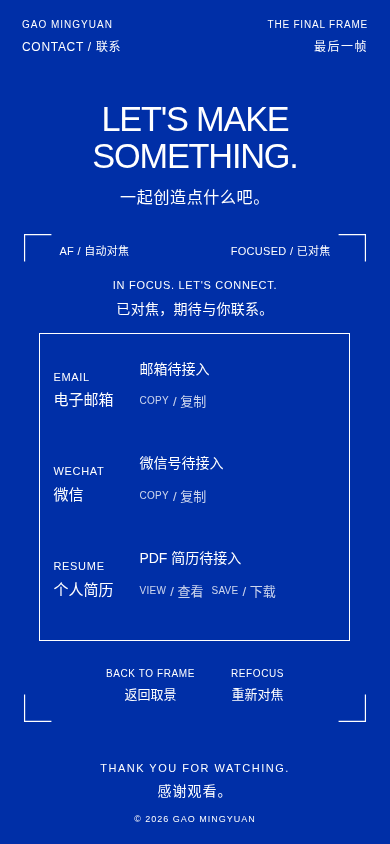
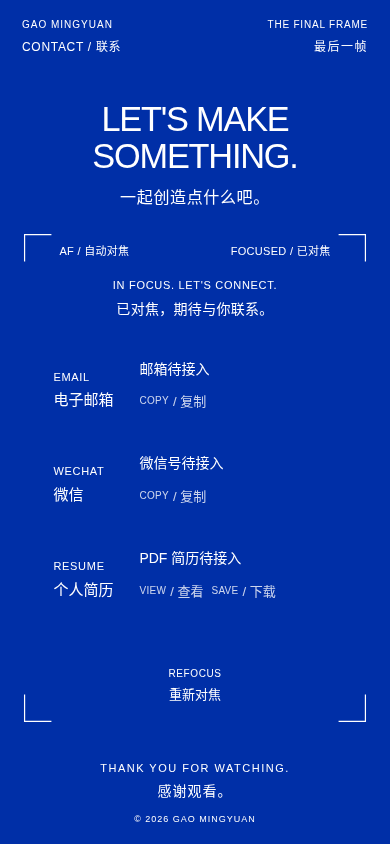
Correct CONTACT focus states and simplify camera controls

Changed region(s): [[0.2769, 0.7701, 0.5538, 0.8318], [0.5846, 0.7701, 0.7385, 0.8318]]

diff --git a/prototypes/contact-interaction/contact.js b/prototypes/contact-interaction/contact.js
@@ -2,47 +2,51 @@
 (() => {
   const $ = id => document.getElementById(id);
   const root=$('contact'), frame=$('viewfinder'), autofocus=$('autofocus'), flash=$('shutter-flash'), trigger=$('focus-trigger'), panel=$('contact-panel');
-  const back=$('back'), refocus=$('refocus'), feedback=$('copy-feedback');
+  const control=$('capture-control'), feedback=$('copy-feedback');
   const reduced=matchMedia('(prefers-reduced-motion: reduce)');
-  let playhead=0, goal=0, animation=null, raf=0, reopen=false;
+  let playhead=0, goal=0, animation=null, raf=0;
   let contact={email:null,wechat:null,resumeUrl:null,wechatQrUrl:null}, copyEpoch=0, feedbackToken=0;
   const ease=x=>(1-Math.cos(Math.PI*x))/2;
   function render() {
     // The composition stays fixed; only optical clarity and the auxiliary AF strokes change.
     const phase=(a,b)=>ease(Math.max(0,Math.min(1,(playhead-a)/(b-a))));
     panel.style.filter=`blur(${20*(1-phase(.12,.64))}px)`;
-    const shrink=1-.3*phase(0,.16), spread=phase(.16,.57);
-    const mix=(a,b)=>a+(b-a)*spread;
-    const d=`M ${mix(0,28)} ${mix(-7*shrink,-42)} L ${mix(0,42)} ${mix(0,-42)} L ${mix(7*shrink,42)} ${mix(0,-28)}`;
-    for(const path of autofocus.children)path.setAttribute('d',d);
-    autofocus.style.opacity=String(1-phase(.85,.96));
-    for(const path of autofocus.children)path.style.strokeWidth=String(1.2+.5*phase(.57,.64));
+    // A permanent cross and nearby corner strokes form one compact AF reticle.
+    const tightening=phase(0,.24)*(1-phase(.60,.68));
+    const inset=34-7*tightening, arm=12;
+    for(const path of $('af-corners').children)path.setAttribute('d',`M ${inset-arm} ${-inset} L ${inset} ${-inset} L ${inset} ${-inset+arm}`);
+    autofocus.style.opacity=String(1-phase(.79,.85));
+    autofocus.style.transform=`translate(-50%, -50%) scale(${1-.1*phase(0,.24)*(1-phase(.60,.68))})`;
+    const weight=1.2+.45*phase(.60,.66);
+    for(const path of $('af-corners').children)path.style.strokeWidth=String(weight);
     const exposure=goal===1&&animation&&playhead>.79&&playhead<.85;
     flash.style.opacity=String(exposure ? .16*Math.sin(Math.PI*(playhead-.79)/.06):0);
-    const focused=playhead===1&&goal===1&&!reopen;
-    const state=focused?'focused':!animation?'standby':goal===0?'defocusing':playhead<.64?'focusing':playhead<.79?'locked':playhead<.85?'shutter':'freezing';
+    const focused=playhead===1&&goal===1;
+    const state=focused?'focused':!animation?'standby':goal===0?'defocusing':playhead<.64?'focusing':playhead<.79?'locked':'shutter';
     root.dataset.state=state;
     root.dataset.progress=String(playhead);
     panel.inert=!focused;
-    trigger.disabled=focused;
-    $('camera-state').textContent=({focused:'FOCUSED / 已对焦',standby:'STANDBY / 待机',defocusing:'STANDBY / 待机',focusing:'FOCUSING / 对焦中',locked:'LOCKED / 已锁定',shutter:'CAPTURE / 拍摄',freezing:'FOCUSED / 已对焦'})[state];
-    back.children[0].textContent=goal||focused?'BACK TO FRAME':'CLICK TO FOCUS';
-    back.children[1].textContent=goal||focused?'返回取景':'点击对焦';
-    refocus.children[0].textContent=focused?'REFOCUS':'VIEW NOW';
-    refocus.children[1].textContent=focused?'重新对焦':'直接查看';
-    refocus.setAttribute('aria-label',focused?'重新对焦 / Refocus':'直接查看联系方式，跳过动画 / View contacts without animation');
+    trigger.disabled=focused||!!animation;
+    $('camera-state').textContent=({focused:'FOCUSED / 已对焦',standby:'STANDBY / 待机',defocusing:'STANDBY / 待机',focusing:'FOCUSING / 对焦中',locked:'LOCKED / 已锁定',shutter:'CAPTURE / 拍摄'})[state];
+    const message=focused?["IN FOCUS. LET'S CONNECT.",'已对焦，期待与你联系。']:!animation||goal===0?['OUT OF FOCUS','尚未对焦']:state==='locked'?['FOCUS LOCKED','焦点已锁定']:state==='shutter'?['CAPTURING...','正在拍摄…']:['FOCUSING...','正在对焦…'];
+    if($('focus-en').textContent!==message[0])$('focus-en').textContent=message[0];
+    if($('focus-zh').textContent!==message[1])$('focus-zh').textContent=message[1];
+    control.children[0].textContent=focused?'REFOCUS':'CLICK TO FOCUS';
+    control.children[1].textContent=focused?'重新对焦':'点击对焦';
+    control.disabled=!!animation;
+    control.setAttribute('aria-label',focused?'重新对焦，恢复尚未对焦状态 / Refocus':'点击对焦 / Click to focus');
+
   }
   function finish(next) {
     playhead=goal=next; animation=null; frame.removeAttribute('aria-busy');
-    if(!next&&reopen){reopen=false;go(1);return;}
     render();
     if(next)panel.focus({preventScroll:true});else trigger.focus({preventScroll:true});
   }
-  function go(next,{immediate=false,again=false}={}) {
-    cancelAnimationFrame(raf);raf=0;reopen=again;
+  function go(next) {
+    cancelAnimationFrame(raf);raf=0;
     feedbackToken++;feedback.replaceChildren();
     goal=next;
-    if(immediate||reduced.matches){reopen=false;finish(again?1:next);return;}
+    if(reduced.matches){finish(next);return;}
     if(next===playhead){finish(next);return;}
     // Reversal starts from the current blur value; no geometry or content is replaced.
     animation={from:playhead,to:next,start:performance.now(),duration:(next?1500:650)*Math.abs(next-playhead)};
@@ -52,13 +56,12 @@
     raf=0;if(!animation)return;
     const t=Math.min(1,(now-animation.start)/animation.duration);
     playhead=animation.from+(animation.to-animation.from)*t;
-    if(t===1)finish(animation.to);else{render();raf=requestAnimationFrame(tick);}
+    if(t===1||(animation.to===1&&playhead>=.85))finish(animation.to);else{render();raf=requestAnimationFrame(tick);}
   }
   trigger.addEventListener('click',()=>{if(!animation)go(1);});
-  back.addEventListener('click',()=>go(goal||playhead===1?0:1));
-  refocus.addEventListener('click',()=>playhead===1&&!animation?go(0,{again:true}):go(1,{immediate:true}));
+  control.addEventListener('click',()=>{if(!animation)go(playhead===1?0:1);});
   document.addEventListener('keydown',event=>{if(event.key==='Escape'&&(playhead||goal)){event.preventDefault();go(0);}});
-  reduced.addEventListener('change',()=>{if(reduced.matches&&animation){const end=reopen?1:goal;cancelAnimationFrame(raf);raf=0;reopen=false;finish(end);}});
+  reduced.addEventListener('change',()=>{if(reduced.matches&&animation){const end=goal;cancelAnimationFrame(raf);raf=0;finish(end);}});
   function emailValue(value) {
     if(value===null||value===undefined||value==='')return null;
     if(typeof value!=='string'||!/^[^\s@]+@[^\s@]+\.[^\s@]+$/.test(value.trim()))throw new TypeError('请提供真实有效的邮箱地址');return value.trim();
@@ -101,7 +104,7 @@
   function layout() {
     // Preserve the approved final geometry, including its integer clientWidth rounding.
     const w=frame.clientWidth,h=frame.clientHeight,mobile=innerWidth<=650;
-    for(const element of [$('focus-mark'),panel])Object.assign(element.style,{left:`${mobile?16:w*.08}px`,top:'100px',width:`${mobile?w-32:w*.84}px`,height:`${h-182}px`});
+    Object.assign(panel.style,{left:`${mobile?16:w*.08}px`,top:'100px',width:`${mobile?w-32:w*.84}px`,height:`${h-182}px`});
   }
   window.addEventListener('resize',layout);layout();render();
 })();

diff --git a/prototypes/contact-interaction/contact.css b/prototypes/contact-interaction/contact.css
@@ -25,7 +25,6 @@ h1 { font-size: clamp(34px, 4.2vw, 84px); line-height: 1.05; font-weight: 400; l
 .camera-ui { position: absolute; top: 13px; font-size: 12px; line-height: 1.5; letter-spacing: 1px; pointer-events: none; }
 .camera-left { left: 58px; }
 .camera-right { right: 58px; }
-.focus-mark { position: absolute; left: 8%; top: 100px; width: 84%; height: calc(100% - 182px); border: 1.2px solid white; pointer-events: none; opacity: 1; }
 .focus-trigger { position: absolute; inset: 0; width: 100%; height: 100%; border: 0; background: none; padding: 0; cursor: crosshair; z-index: 2; touch-action: manipulation; -webkit-tap-highlight-color: transparent; }
 .focus-trigger:disabled { pointer-events: none; }
 .focus-content { position: absolute; inset: 0; pointer-events: none; }
@@ -58,8 +57,7 @@ a.contact-value[href]:hover { text-decoration: underline; text-underline-offset:
 .copy-feedback span { display: block; }
 .copy-feedback [lang='en'] { font-size: 11px; }
 .frame-controls .text-control span { white-space: nowrap; }
-#back { width: 118.453125px; }
-#refocus { width: 76.78125px; }
+#capture-control { width: 118.453125px; }
 .frame-controls { position: absolute; bottom: 13px; left: 12px; right: 12px; display: flex; gap: 32px; justify-content: center; z-index: 4; }
 footer { display: grid; grid-template-columns: 1fr auto 1fr; align-items: end; padding: 12px 4.5vw 24px; gap: 20px; }
 .copyright { font-size: 10px; letter-spacing: 1px; line-height: 1.5; }
@@ -85,7 +83,7 @@ footer { display: grid; grid-template-columns: 1fr auto 1fr; align-items: end; p
   #focus-zh { font-size: 14px; letter-spacing: .3px; }
   .text-control span:first-child { font-size: 10px; letter-spacing: .6px; }
   .text-control span:last-child { font-size: 13px; }
-  .focus-mark, .contact-panel { left: 16px; width: calc(100% - 32px); }
+  .contact-panel { left: 16px; width: calc(100% - 32px); }
   .contact-panel { padding: 12px 14px; gap: 4px; }
   .contact-grid { grid-template-columns: minmax(0,1fr); grid-template-rows: repeat(3,minmax(64px,1fr)); gap: 4px; align-items: stretch; }
   .contact-item { grid-template-columns: 76px minmax(0,1fr); grid-template-rows: auto 44px; grid-template-areas: 'heading value' 'heading actions'; gap: 0 10px; text-align: left; align-content: center; }
@@ -99,8 +97,7 @@ footer { display: grid; grid-template-columns: 1fr auto 1fr; align-items: end; p
   .inline-action span:last-child { font-size: 13px; }
   .copy-feedback { font-size: 12px; }
   .copy-feedback [lang='en'] { font-size: 10px; }
-  #back { width: 105.125px; }
-  #refocus { width: 69.09375px; }
+  #capture-control { width: 105.125px; }
   .frame-controls { gap: 20px; }
   footer { padding: 10px 20px 18px; display: flex; flex-direction: column; align-items: center; gap: 11px; }
   .end-credit { order: -1; gap: 4px; }
@@ -116,6 +113,6 @@ footer { display: grid; grid-template-columns: 1fr auto 1fr; align-items: end; p
 @media (prefers-reduced-motion: reduce) { *, *::before, *::after { animation: none !important; transition: none !important; } }
 
 /* Optical helpers overlay the fixed composition; no layout element is animated. */
-.autofocus { position: absolute; left: 50%; top: calc(50% + 9px); width: 112px; height: 84px; transform: translate(-50%, -50%); overflow: visible; pointer-events: none; z-index: 4; }
+.autofocus { position: absolute; left: 50%; top: calc(50% + 9px); width: 48px; height: 48px; transform: translate(-50%, -50%); overflow: visible; pointer-events: none; z-index: 4; }
 .autofocus path { fill: none; stroke: white; stroke-width: 1.2; vector-effect: non-scaling-stroke; }
 .shutter-flash { position: absolute; inset: 0; background: white; opacity: 0; pointer-events: none; z-index: 5; }

diff --git a/prototypes/contact-interaction/index.html b/prototypes/contact-interaction/index.html
@@ -22,15 +22,15 @@
       <svg class="corner corner-br" viewBox="0 0 48 48" aria-hidden="true"><path d="M1 47V1H47" pathLength="1"/></svg>
       <svg class="corner corner-bl" viewBox="0 0 48 48" aria-hidden="true"><path d="M1 47V1H47" pathLength="1"/></svg>
       <span class="camera-ui camera-left">AF / 自动对焦</span><span id="camera-state" class="camera-ui camera-right">STANDBY / 待机</span>
-      <div id="focus-mark" class="focus-mark" aria-hidden="true"></div>
       <svg id="autofocus" class="autofocus" viewBox="-50 -50 100 100" preserveAspectRatio="none" aria-hidden="true">
-        <path/><path transform="rotate(90)"/><path transform="rotate(180)"/><path transform="rotate(270)"/>
+        <path class="af-cross" d="M-7 0H7 M0-7V7"/>
+        <g id="af-corners"><path/><path transform="rotate(90)"/><path transform="rotate(180)"/><path transform="rotate(270)"/></g>
       </svg>
       <div id="shutter-flash" class="shutter-flash" aria-hidden="true"></div>
       <button id="focus-trigger" class="focus-trigger" type="button" aria-label="点击对焦，查看联系方式 / Click to focus and view contacts" aria-controls="contact-panel"></button>
       <div id="focus-content" class="focus-content">
       <div id="focus-message" class="focus-message" role="status" aria-live="polite" aria-atomic="true">
-        <span id="focus-en" lang="en">IN FOCUS. LET'S CONNECT.</span><span id="focus-zh">已对焦，期待与你联系。</span>
+        <span id="focus-en" lang="en">OUT OF FOCUS</span><span id="focus-zh">尚未对焦</span>
       </div>
       <section id="contact-panel" class="contact-panel" aria-label="联系方式 / Contact details" tabindex="-1" inert>
         <div class="contact-grid">
@@ -54,8 +54,7 @@
       </section>
       </div>
       <div id="frame-controls" class="frame-controls">
-        <button id="back" class="text-control" type="button"><span lang="en">CLICK TO FOCUS</span><span>点击对焦</span></button>
-        <button id="refocus" class="text-control" type="button"><span lang="en">VIEW NOW</span><span>直接查看</span></button>
+        <button id="capture-control" class="text-control" type="button"><span lang="en">CLICK TO FOCUS</span><span>点击对焦</span></button>
       </div>
     </section>
     <noscript>当前邮箱、微信与简历均待接入。启用 JavaScript 可体验失焦与对焦切换。</noscript>

diff --git a/prototypes/contact-interaction/README.md b/prototypes/contact-interaction/README.md
@@ -1,37 +1,35 @@
-# CONTACT · 固定画面的失焦 / 对焦原型
+# CONTACT · THE FINAL FRAME / 最后一帧
 
-交互预览：https://anaphy-contact-focus-reveal-preview.alightowlet66.chatgpt.site
+独立预览：https://anaphy-contact-focus-reveal-preview.alightowlet66.chatgpt.site
 
-只修改本目录。HOME、WORKS、ABOUT、PROJECT 未修改，未合并 PR。
+仅修改本目录；不整合或修改 HOME、WORKS、ABOUT、PROJECT，不自动合并 PR。
 
-## 固定构图与相机拍摄
+## 相机状态与交互
 
-已确认的最终构图保持不变。完整联系方式 DOM 从 HTML 加载起就存在，始终占据相同位置、透明度为 1。外侧四个角标、原矩形边框、顶部标题、IN FOCUS 双语标题和片尾始终清晰、固定。只有联系信息区域参与模糊对焦。
+- 初始：OUT OF FOCUS / 尚未对焦，右上 STANDBY / 待机。联系信息原位 blur(20px)，中央是清晰的细十字及紧邻的四角小框。主操作只有 CLICK TO FOCUS / 点击对焦。
+- 对焦：小框与十字整体轻微收紧，信息逐渐清晰，文案 FOCUSING... / 正在对焦…。所有内容坐标保持固定。
+- 锁定：小框白色线条略微加粗，文案 FOCUS LOCKED / 焦点已锁定，右上 LOCKED / 已锁定。
+- 快门：自动触发一次约 90ms、峰值 16% 的白色闪光，文案 CAPTURING... / 正在拍摄…。
+- 快门后：中央十字和小框完全消失，信息保持清晰。文案 IN FOCUS. LET'S CONNECT. / 已对焦，期待与你联系。，右上 FOCUSED / 已对焦。主操作只有 REFOCUS / 重新对焦，点击仅恢复未对焦状态，不自动再拍摄。
 
-点击取景区域后按一条约 1.5 秒的时间轴拍摄：
+拍摄约 1.3 秒。没有大矩形边框、新面板、信息位移或信息淡入淡出。外侧四个取景角标、顶部标题和片尾始终清晰固定。小框为 48×48px 绝对定位 SVG，四角实际轨迹约 33px 宽，十字约 7px；通过控制点及整体轻微缩放收紧，不采用十字模糊变化。辅助标记在快门结束时归零透明度。
 
-1. 细小白色十字先轻微收缩。
-2. 同一组四条 SVG 路径的控制点连续向外移动，形成四角对焦框，联系信息同时从 blur(20px) 降至 blur(0)。
-3. 约 0.96 秒完成锁定，白色线条稍微加粗，状态显示 LOCKED / 已锁定。
-4. 约 1.19 秒触发一次约 90ms、峰值 16% 不透明度的白色快门曝光；没有声音、霓虹或反复闪烁。
-5. 快门结束后辅助框轻轻退场，1.5 秒后进入清晰定格状态。对焦辅助图形与曝光层始终绝对定位且不接收点击，不改变原版排版。
+删除 VIEW NOW 和 BACK TO FRAME。单一按钮固定占位，状态文字不引起布局跳动。动画期间防重复触发；Escape 可取消并恢复未对焦。支持触屏、Tab、Enter / Space。减少动态效果下立即切换，不播放闪光。未来资料复制/邮件/简历接口不变，未配置资料保持明确的待接入状态及禁用操作。
 
-初始“直接查看”可跳过整个动画。减少动态效果设置下同样立即切换，不播放对焦或闪光。返回取景会平滑失焦；重新对焦先恢复失焦再重新拍摄。取景区重复点击不重启动画，Escape 可取消拍摄并返回失焦，返回过程不触发闪光。支持键盘 Tab、Enter / Space、触屏。资料区失焦时 inert，拍摄完成后恢复操作；联系方式本身不插入、不隐藏、不淡入、不位移。
+## 资料与本地运行
 
-本地可直接打开 index.html，或在本目录运行 `python3 -m http.server 8006 --bind 127.0.0.1`。
+contact-config.js 中 email、wechat、resumeUrl、wechatQrUrl 当前均为 null。仅接入真实资料，不创建虚假邮箱、微信号或文件。运行时可用 ContactPrototype.configure(...)；传 null 恢复占位。复制失败会提示手动复制。
 
-## 真实资料接口
-
-contact-config.js 保留 email、wechat、resumeUrl、wechatQrUrl，当前均为 null。提供真实邮箱、微信号和实际存在的 PDF/二维码路径后才启用对应操作；缺失资料明确标为待接入，无虚假链接。支持 `ContactPrototype.configure(...)`，传 null 恢复空配置。剪贴板失败提示手动复制。跨域 PDF 的 download 属性取决于服务器，查看器仍可保存。
+直接打开 index.html；或本目录运行 `python3 -m http.server 8006 --bind 127.0.0.1` 后访问 http://127.0.0.1:8006/ 。
 
 ## 验证与截图
 
-实际 Chromium 比较 1920×1080、1440×900、1366×768、390×844、320×568 的初始、动画中、完成状态元素位置与尺寸，并与修改前已确认的完成状态比较。检查十字收缩及变框的中间路径、锁定与快门阶段、辅助框最终退场、触摸、键盘、反向动画、重复操作、辅助跳过和减少动态效果。320×568 保留纵向滚动及资料区独立滚动，无横向溢出。未验证 Safari、Firefox 或真实手机硬件。
+Chromium 实际渲染并逐阶段截图：1920×1080、1440×900、1366×768、390×844、320×568。检查初始、对焦、锁定、快门和快门后文案、标记及模糊程度，断言标题、信息、外侧角标和片尾位置与上一版一致，检查单按钮、触摸、键盘、重新对焦恢复、取消及减少动态效果。小屏允许纵向滚动以保持可读，无横向溢出。未测试 Safari、Firefox 或真实手机硬件。
 
-- [桌面失焦](previews/initial-desktop.png)
-- [桌面清晰](previews/focused-desktop.png)
-- [手机失焦](previews/initial-mobile.png)
-- [手机清晰](previews/focused-mobile.png)
-
-- [对焦锁定](previews/locked-desktop.png)
-- [快门拍摄](previews/shutter-desktop.png)
+- [初始](previews/initial-desktop.png)
+- [对焦中](previews/focusing-desktop.png)
+- [锁定](previews/locked-desktop.png)
+- [快门](previews/shutter-desktop.png)
+- [拍摄后](previews/focused-desktop.png)
+- [手机初始](previews/initial-mobile.png)
+- [手机拍摄后](previews/focused-mobile.png)
